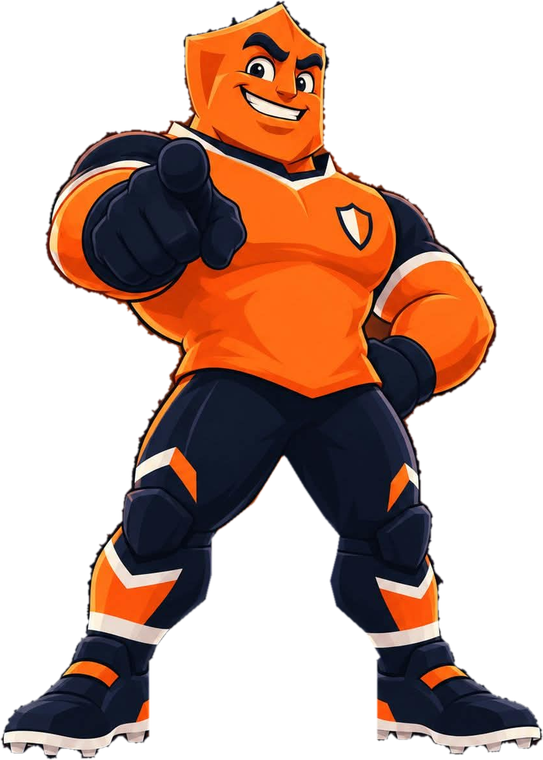
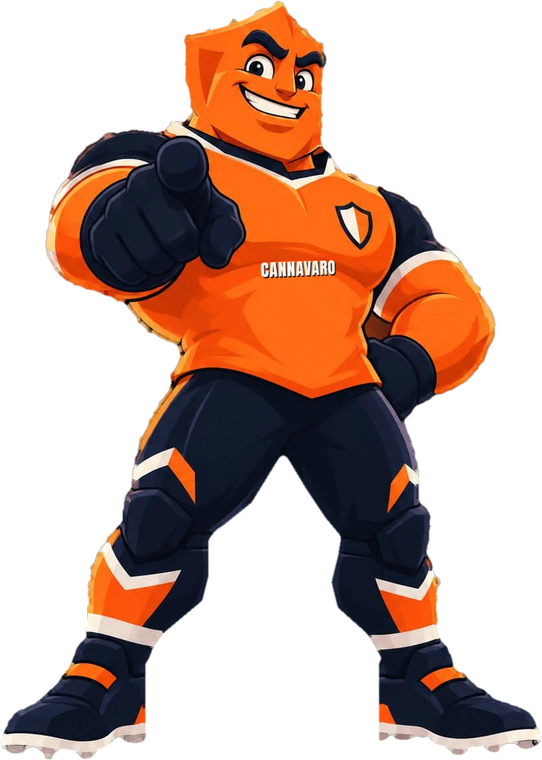
preview: smoother pointing cutout and small CANNAVARO chest wordmark (v1 kept for rollback)

diff --git a/concept-a-brands-preview/index.html b/concept-a-brands-preview/index.html
@@ -607,7 +607,7 @@ html:not([data-theme="dark"]) .hero-bg path:nth-of-type(4){stroke:rgba(255,110,1
   <h2>جاهز <span class="latin" dir="ltr">نبدأ؟</span></h2>
   <p>قنوات التواصل هتتضاف قبل النشر.</p>
    </div>
-   <img class="contact-mascot" src="mascot/pointing-cutout.png" alt="شخصية كانافارو بتشاور ناحيتك" width="543" height="760" loading="lazy">
+   <img class="contact-mascot" src="mascot/pointing-cutout.png?v=2" alt="شخصية كانافارو بتشاور ناحيتك" width="542" height="760" loading="lazy">
   </div>
 </section>
 
